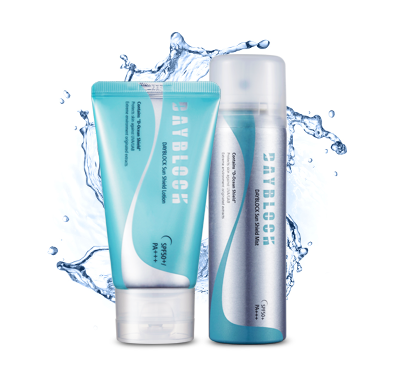
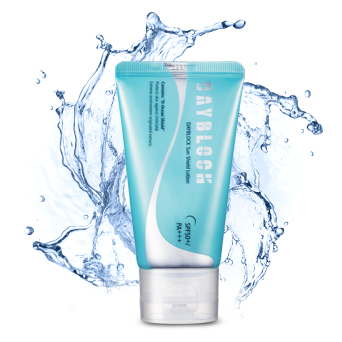
베스바디 바디케어

diff --git a/_ui/responsive/html/product/bath_body/body-care/BB_3065_dayblock_sun_shield_lotion.html b/_ui/responsive/html/product/bath_body/body-care/BB_3065_dayblock_sun_shield_lotion.html
@@ -63,8 +63,8 @@
 											<div class="v-logo"><img src="/_ui/responsive/theme-blue/images/akl_product/common/logo_dayblock.png" alt="G&H NURISH 로고"></div>
 											<div class="txt-info-visual">
 												<div class="v-logo-txt">자외선 차단, 미백, 주름 개선 3중 기능성 화장품</div>
-												<div class="v-tit white">데이블럭<br><span>썬 쉴드 로션 SPF50+/PA+++</span></div>
-												<p class="v-txt white">꼼꼼하고 강력한 자외선 차단 기능 하루 종일 지속되는 꼼꼼하고 강력한 자외선 차단 기능 제공, 광노화로부터 피부 보호 및 피부 미백, 보습 효과 및 백탁 현상 없이 가볍고 부드러운 발림성을 제공합니다.</p>												
+												<div class="v-tit blue16">데이블럭<br><span>썬 쉴드 로션 SPF50+/PA+++</span></div>
+												<p class="v-txt">꼼꼼하고 강력한 자외선 차단 기능 하루 종일 지속되는 꼼꼼하고 강력한 자외선 차단 기능 제공, 광노화로부터 피부 보호 및 피부 미백, 보습 효과 및 백탁 현상 없이 가볍고 부드러운 발림성을 제공합니다.</p>												
 											</div>	
 											<div class="v-pro">
 												<span><img src="/_ui/responsive/theme-blue/images/akl_product/bath-body/visual_top_3065.png" alt="데이블럭 썬 쉴드 로션 SPF50+/PA+++상품 이미지"></span>
@@ -82,8 +82,8 @@
 															<em>365일 Everyday</em>
 															<strong class="blue04">&acute;데이블럭&acute;</strong>하세요
 														</div>
-														<p class="com-txt">자외선에 오랜 시간 노출되면 피부는 쉽게 건조해지고 피부 온도가 올라가면서 피부 광노화를 촉진시키는 원인이 됩니다.
-															<br>강력한 자외선 차단은 물론, 피부를 촉촉하게 유지시켜주는 썬 로션과, 뿌리는 즉시 시원한 쿨링감을 선사하는 썬 미스트! 365일 에브리데이, 데이블럭이 당신의 피부를  강력하게 지켜줍니다.
+														<p class="com-txt">자외선에 오랜 시간 노출되면 피부는 쉽게 건조해지고 피부 온도가 올라가면서 피부 광노화를 촉진시키는 원인이 됩니다. 
+															<br>강력한 자외선 차단은 물론, 피부를 촉촉하게 유지시켜주는 썬 로션이 365일 Everyday 데이블럭이 당신의 피부를  강력하게 지켜줍니다.
 														</p>
 													</div>
 												</div>
@@ -101,8 +101,7 @@
 															<em>바다 깊은 곳에서 끌어올린<br>신비로운 방어막</em>
 															<strong class="blue04">D-Ocean</strong> Shield
 														</div>
-														<p class="com-txt">아직 밝혀지지 않은 무궁무진한 신비로움을 간직한 바다 깊은 곳, 심해의 극한 환경 속에서 오랜 시간 동안 살아남아 더욱 놀라운 생명력으로부터 추출한 성분 애비신과 베누시안.
-															<br>애비신과 베누시안으로부터 완성된 디 - 오션쉴드 [D-Ocean Shield]가 적용된 새로운 데이블럭이 더욱 꼼꼼하게 자외선을 차단하고 피부장벽강화 보호막을 형성하여 유해환경으로부터 피부를 강력하게 보호해줍니다.
+														<p class="com-txt">아직 밝혀지지 않은 무궁무진한 신비로움을 간직한 바다 깊은 곳, 심해의 극한 환경 속에서 오랜 시간 동안 살아남아 더욱 놀라운 생명력으로부터 추출한 성분 애비신과 베누시안. 애비신과 베누시안으로부터 완성된 디 - 오션쉴드 [D-Ocean Shield]가 적용된 새로운 데이블럭이 더욱 꼼꼼하게 자외선을 차단하고 피부장벽강화 보호막을 형성하여 유해환경으로부터 피부를 강력하게 보호해줍니다.
 														</p>
 													</div>
 												</div>
@@ -163,22 +162,14 @@
 													<div class="bepe-top">
 														<div class="txt-lound blue04"><span>데이블럭 LINE UP</span></div>
 													</div>
-													<div class="bep-lst deaf02">
+													<div class="bep-lst deaf01">
 														<ul>
 															<li>
 																<div class="beoprod-box">
 																	<span class="fig-b">
 																		<span><img src="/_ui/responsive/theme-blue/images/akl_product/bath-body/line_up_sun_shield_lotion.png" alt="제품이미지"></span>
 																	</span>
-																	<p>데이블럭 썬 쉴드 로션 SPF50+ / PA+++</p>
-																</div>
-															</li>
-															<li>
-																<div class="beoprod-box">
-																	<span class="fig-b">
-																		<span><img src="/_ui/responsive/theme-blue/images/akl_product/bath-body/line_up_sun_shield_mist.png" alt="제품이미지"></span>
-																	</span>
-																	<p>데이블럭 썬 쉴드 미스트 SPF50+ / PA+++</p>
+																	<p>데이블럭<br>썬 쉴드 로션 SPF50+ / PA+++</p>
 																</div>
 															</li>
 														</ul>

diff --git a/_ui/responsive/theme-blue/css/akl-product.css b/_ui/responsive/theme-blue/css/akl-product.css
@@ -169,7 +169,7 @@ iframe {border:0;}
 
 .visual-area.type04[class*='bath-gift-s'] {min-height:auto}
 .visual-area.type04[class*='bath-gift-s'] .v-pro{margin-top:60px}
-.visual-area.type02.dayblock{background: #ffffff url(../images/akl_product/bath-body/bg_dayblock_sun.png) no-repeat top center;height:976px;} /* 데이블럭 썬케어  */
+.visual-area.type02.dayblock{background: #ffffff url(../images/akl_product/bath-body/bg_dayblock_sun.png) no-repeat top center;height:1000px;} /* 데이블럭 썬케어  */
 .visual-area.type02.supplement{padding-bottom:90px;background:#c9e3f6;}
 .visual-area.type02.kitchen{background: #ffffff url(../images/akl_product/home-living/bg_dish_drops.png) no-repeat top center;height:1073px;} /* 주방*/
 .visual-area.type02.bathroom{background: #ffffff url(../images/akl_product/home-living/bg_bathroom.png) no-repeat top center;height:965px;} /* 욕실 */
@@ -429,6 +429,7 @@ p, div, li span{word-break: keep-all;word-wrap: break-word;}
 .blue13{color:#366581 !important;}
 .blue14{color:#0079be !important;}
 .blue15{color:#5285b5 !important;}
+.blue16{color:#0457b0 !important;}
 
 .product-body-view .green{color:#017465 !important;} 	/* drakgreen */
 .green01 {color:#5b7927;} 	/* dark-OliveGreen */
@@ -1726,6 +1727,7 @@ dl.amo-txt dd br {line-height:18px}
 .bath-body .inge-lst03 li:after{top: 8px;width: 4px;height: 4px;}
 
 .bep-lst.deaf02 ul li{width: 50%;}
+.bep-lst.deaf01 ul li{width: 100%;}
 .verganic-cont .advanBody-area.bb-none{padding:0 0;}
 .verganic-cont h5{font-weight:400 !important;}
 
@@ -4347,7 +4349,7 @@ ol.decimal-num li ol li ol {padding:0 15px;}
    .color-tip-lst li{float:inherit;}
 	
 	/* 배스바디 헤어케어 */
-	.bep-lst li, .deaf02.bep-lst li, .deaf03.bep-lst li, .deaf04.bep-lst li{width:100%;}
+	.bep-lst li, .deaf01.bep-lst li, .deaf02.bep-lst li, .deaf03.bep-lst li, .deaf04.bep-lst li{width:100%;}
 	
 }
 

diff --git a/_ui/responsive/html/product/bath_body/body-care/BB_3066_dayblock_sun_shield_mist.html b/_ui/responsive/html/product/bath_body/body-care/BB_3066_dayblock_sun_shield_mist.html
@@ -63,8 +63,8 @@
 											<div class="v-logo"><img src="/_ui/responsive/theme-blue/images/akl_product/common/logo_dayblock.png" alt="G&H NURISH 로고"></div>
 											<div class="txt-info-visual">
 												<div class="v-logo-txt">자외선 차단 기능성 화장품</div>
-												<div class="v-tit white">데이블럭<br><span>썬 쉴드 미스트 SPF50+/PA+++</span></div>
-												<p class="v-txt white">언제 어디서나 빠르고 편리한 자외선 차단
+												<div class="v-tit blue16">데이블럭<br><span>썬 쉴드 미스트 SPF50+/PA+++</span></div>
+												<p class="v-txt">언제 어디서나 빠르고 편리한 자외선 차단
 													<br>강력한 자외선 차단은 물론, 피부를 촉촉하게 유지시켜주는 썬 로션과, 뿌리는 즉시 시원한 쿨링감을 선사하는 썬 미스트!
 													<br>365일 에브리데이, 데이블럭이 당신의 피부를 강력하게 지켜줍니다.
 												</p>												
